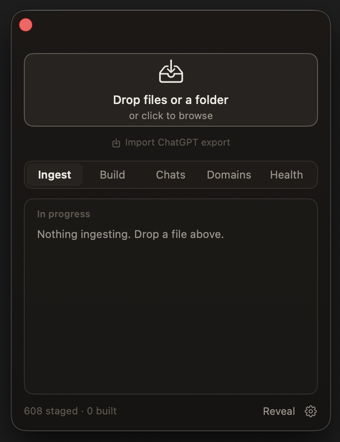
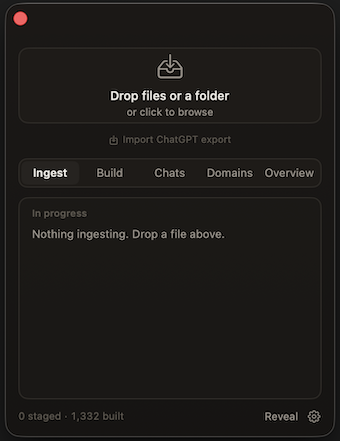
docs: refresh the README's app and wiki-graph screenshots

diff --git a/README.md b/README.md
@@ -84,16 +84,16 @@ Dragging onto the app sorts each file automatically. If you copy files in by han
 
 ## What you get
 
-The wiki is plain Markdown under `~/second-brain/wiki/`:
+The wiki is plain Markdown under `~/second-brain/wiki/`, opened directly as an Obsidian vault:
 
 - One page per topic, written and linked together with `[[wikilinks]]`.
 - A home page that indexes the wiki, with overview pages that gather each subject area.
 - Backlinks on every page, so you can see what refers to what.
 - YAML front matter and rendered LaTeX where the content calls for it.
 
-It opens directly as an Obsidian vault.
-
-![The compiled wiki in Obsidian's graph view](docs/images/wiki-graph.png)
+<p align="center">
+  <img src="docs/images/wiki-graph.png" width="520" alt="The compiled wiki in Obsidian's graph view">
+</p>
 
 For asking questions instead of browsing, Second Brain ships an MCP server that hands the wiki to an assistant like Claude Desktop or Cursor. Beyond keyword and semantic search, it can walk the links between your pages (finding things like what a topic builds on, what relates to it, what you haven't written down yet) and trace any page back to its sources, so the assistant answers from how your notes connect rather than one page at a time.
 
